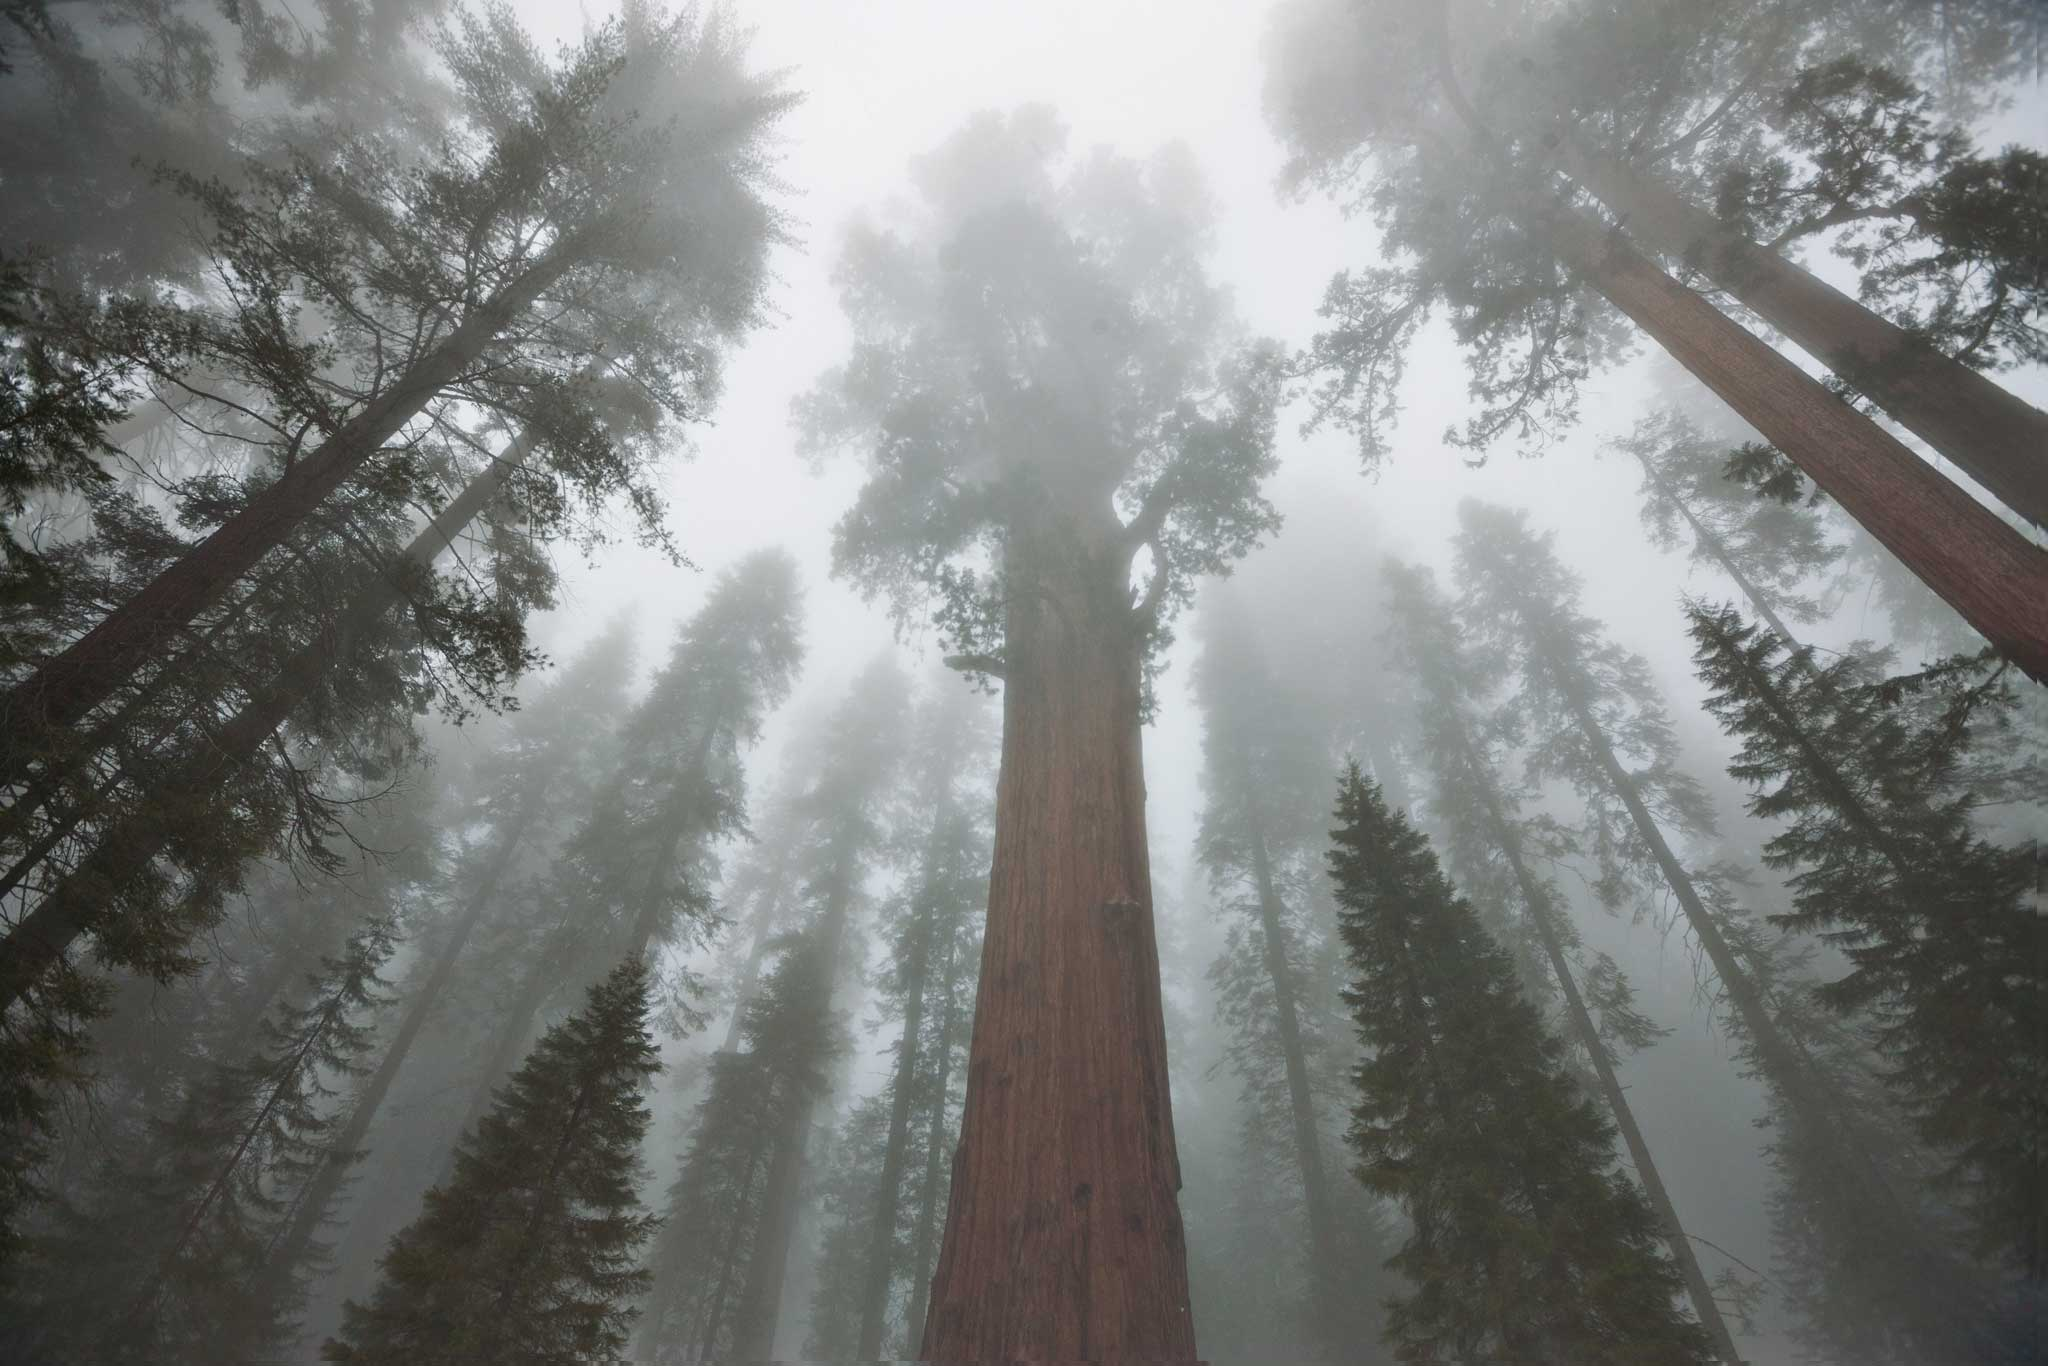
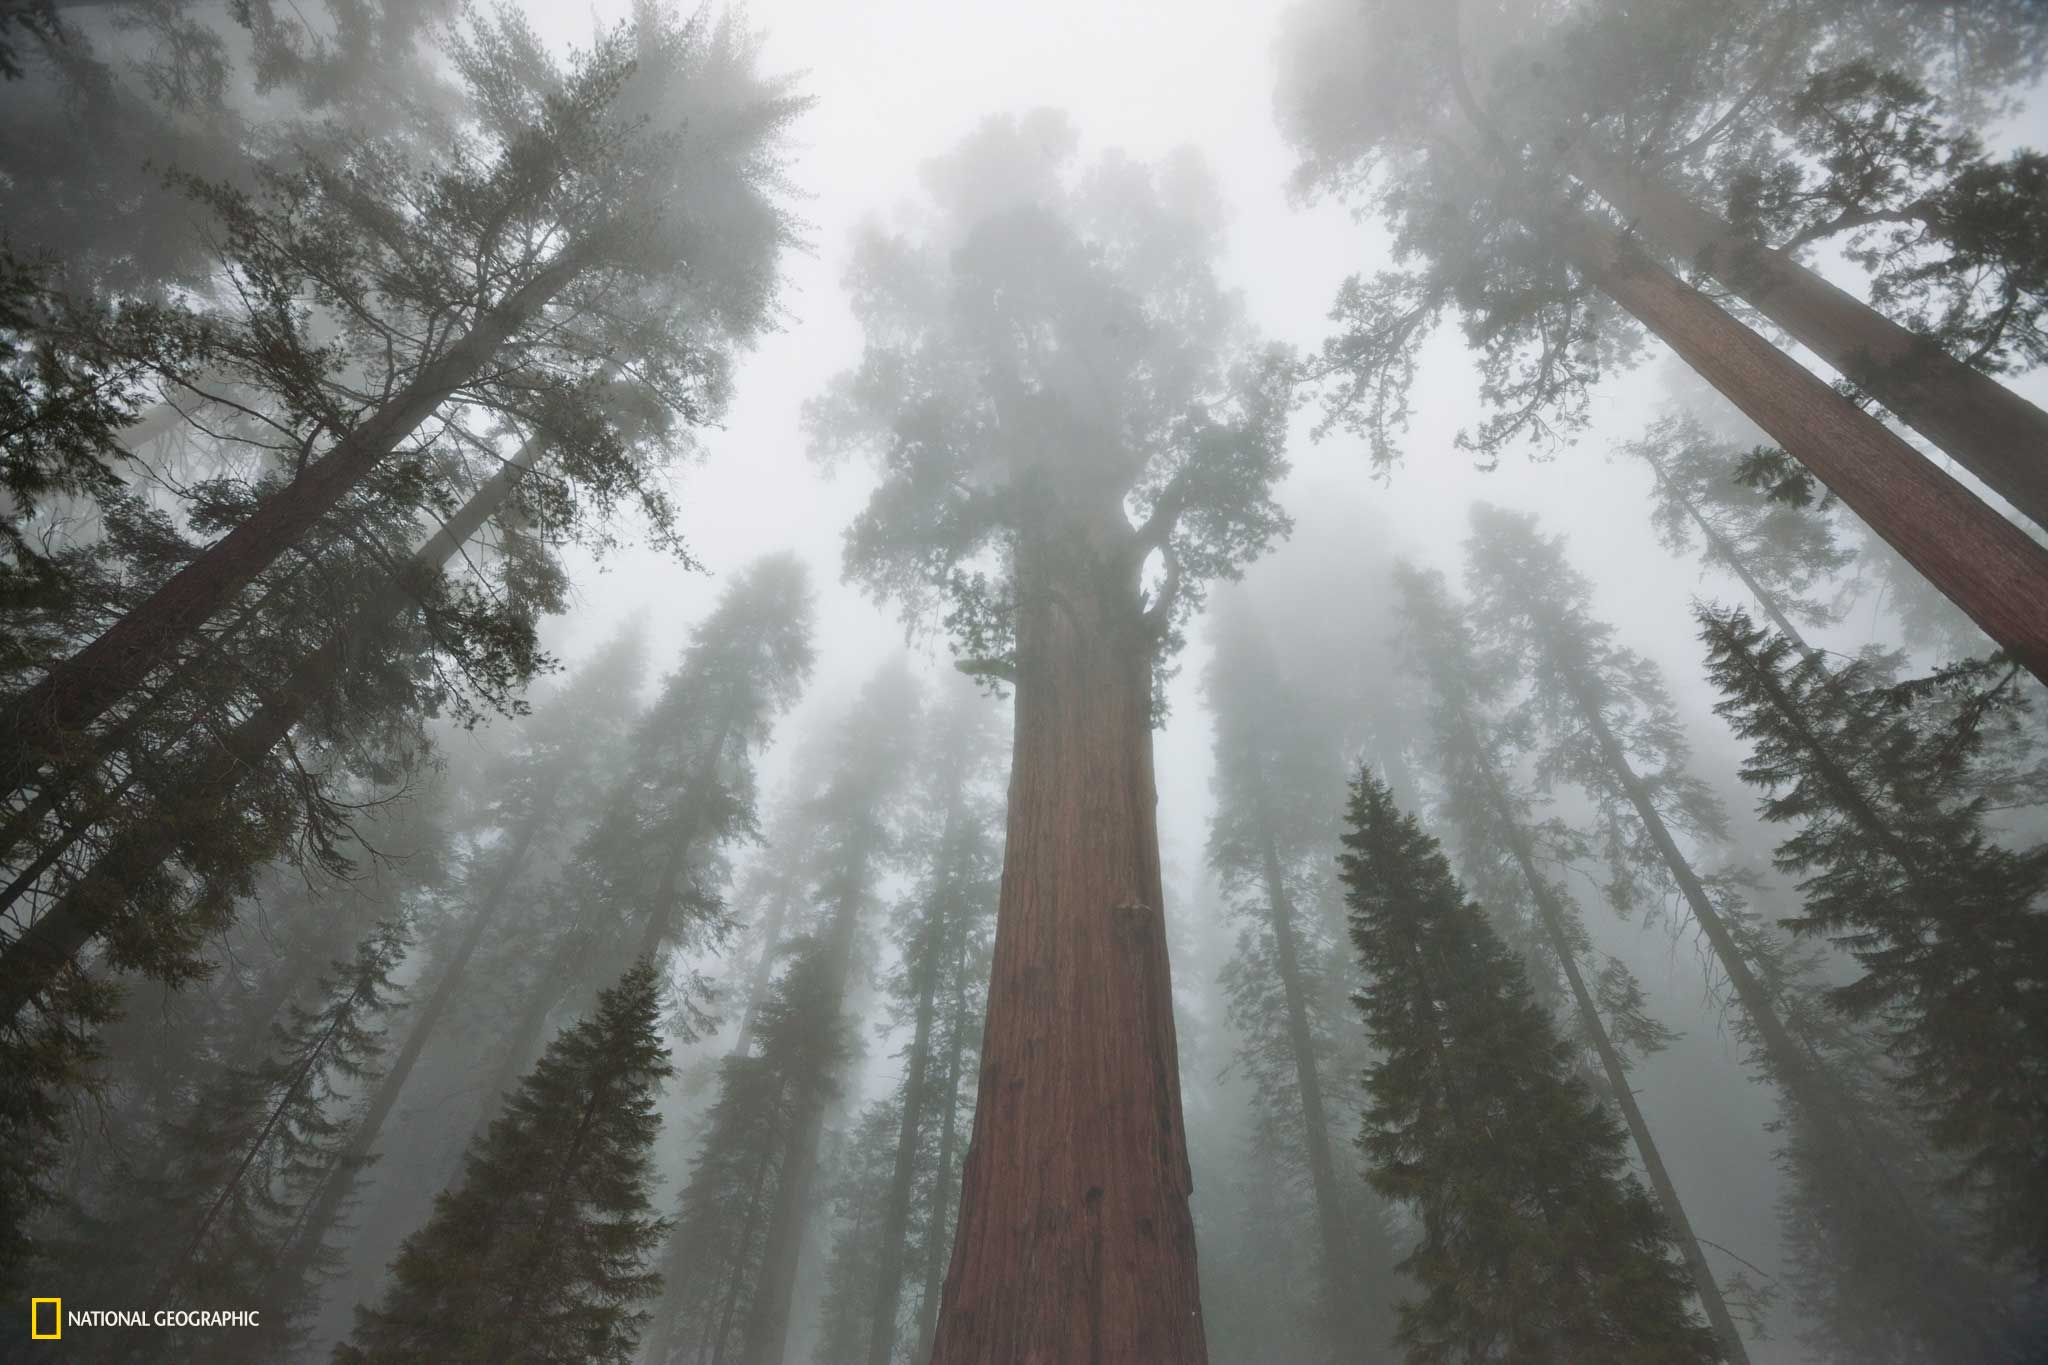
fix toc and add watermark to images

diff --git a/phonegap/js/views/toc-view.js b/phonegap/js/views/toc-view.js
@@ -144,22 +144,25 @@ define([], function (require) {
                 max_width = padding,
                 button,
                 scale = 2.2,
+                btn_width = window.innerWidth / scale,
                 id;
 
             for (i = 0; i < contents.length; i += 1) {
+
                 id = i > 0 ? i + 1: 0;
                 button = new TOCViewButton(id, dir + contents[i].img);
-                button.setSize(window.innerWidth / scale, window.innerHeight / scale);
+                button.setSize(btn_width, window.innerHeight / scale);
                 button.setPosition(x, y);
                 button.render();
                 buttons.push(button);
 
-                if (i % Math.round(contents.length / 2) === 0 && i !== 0) {
-                    max_width = x;
+
+                if (i == 6) {
+                    max_width = x + btn_width + padding;
                     y += (window.innerHeight / scale) + padding;
                     x = padding;
                 } else {
-                    x += (window.innerWidth / scale) + padding;
+                    x += btn_width + padding;
                 }
 
                 button.render().html(contents[i].content);

diff --git a/phonegap/css/screen.css b/phonegap/css/screen.css
@@ -298,9 +298,10 @@ html, body {
   background-position: 50% 50%;
 }
 
-@media screen and (device-width: 600px) and (device-height: 905px) and (-webkit-min-device-pixel-ratio: 1.331) and (-webkit-max-device-pixel-ratio: 1.332) {
-  /* line 205, ../sass/screen/_main.scss */
-  body {
+/* Nexus 7 */
+@media only screen and (min-device-width: 603px) and (max-device-width: 966px) {
+  /* line 206, ../sass/screen/_main.scss */
+  html, body {
     font-size: 80%;
   }
 }
@@ -343,8 +344,8 @@ section.page-view-full.in {
   position: relative;
   width: 100%;
   height: 80vh;
-  box-sizing: border-box;
   padding: 2em;
+  box-sizing: border-box;
 }
 
 /* line 43, ../sass/screen/_pages.scss */
@@ -833,7 +834,7 @@ section.page-view-full.in {
   background-image: url(../assets/images/article1/elevation-small.png);
   background-repeat: no-repeat;
   background-size: 100%;
-  border: 1px solid black;
+  border: 1px solid #ccc;
   background-color: white;
 }
 

diff --git a/phonegap/sass/screen/_main.scss b/phonegap/sass/screen/_main.scss
@@ -201,8 +201,9 @@ html, body{
     background-position: 50% 50%;
 }
 
-@media screen and (device-width: 600px) and (device-height: 905px) and (-webkit-min-device-pixel-ratio: 1.331) and (-webkit-max-device-pixel-ratio: 1.332) {
-    body{
+/* Nexus 7 */
+@media only screen and (min-device-width : 603px) and (max-device-width : 966px){
+    html, body{
         font-size: 80%;
     }
 }

diff --git a/phonegap/sass/screen/_map.scss b/phonegap/sass/screen/_map.scss
@@ -207,7 +207,7 @@ $lightblue: rgb(48, 145, 95);
     background-image: url(../assets/images/article1/elevation-small.png);
     background-repeat: no-repeat;
     background-size: 100%;
-    border: 1px solid black;
+    border: 1px solid #ccc;
     background-color: white;
 }
 

diff --git a/phonegap/sass/screen/_pages.scss b/phonegap/sass/screen/_pages.scss
@@ -36,8 +36,8 @@ section{
     position: relative;
     width: 100%;
     height: 80vh;
-    box-sizing: border-box;
     padding: 2em;
+    box-sizing: border-box;
 }
 
 .region1{
